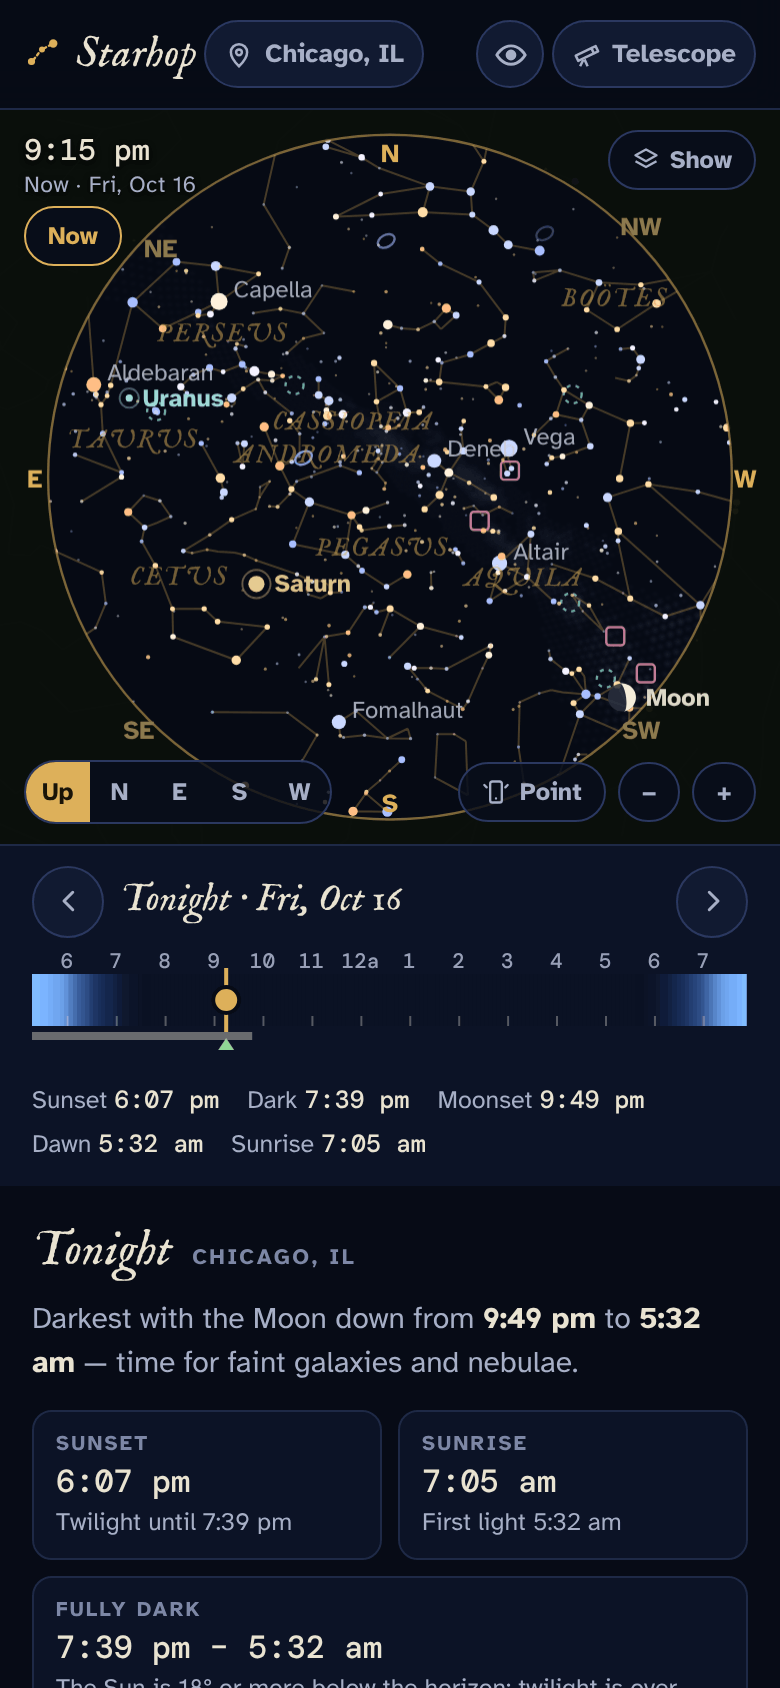
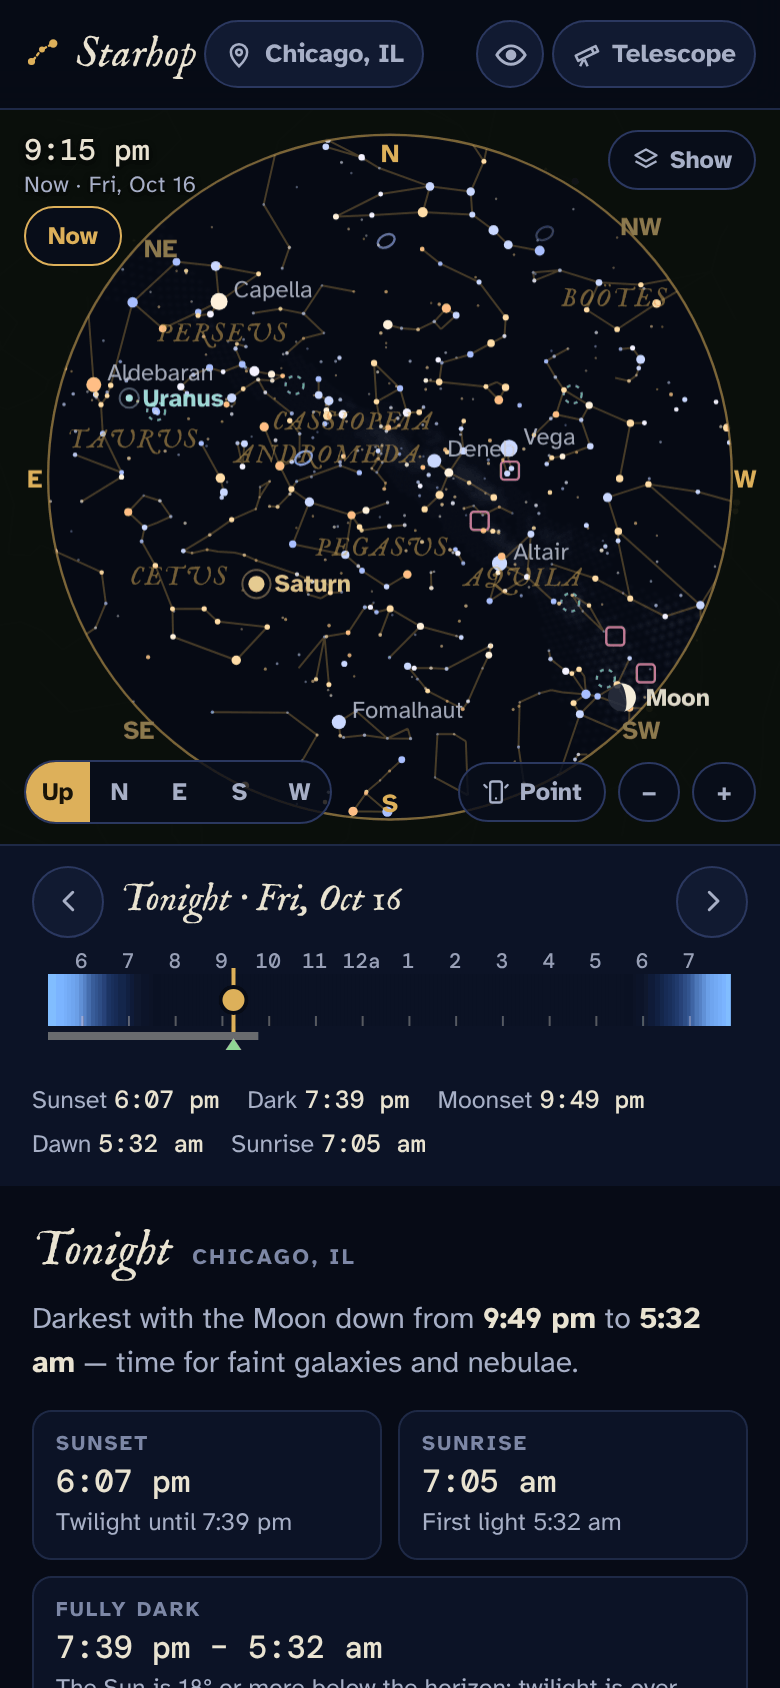
Keep the sky and the timeline clear of the screen's sides on touch phones
Android's back gesture starts at the screen's side. On a phone the timeline reached within 16 px of it, and it starts
at sunset at its left end, and the sky reached the sides themselves. On a touch screen up to 560 px wide the timeline
now comes in to 24 px from the sides, and the sky takes no touch in the 24 px at either side of it, so a swipe there
is the phone's own Back rather than a look around cut short. The sky is still drawn to the edges, and the buttons
over it work as before. With a mouse nothing changes. The phone screenshot of the sky is redrawn.

Claude-Session: https://claude.ai/code/session_01PQbLNW4ckNMowmqWSWnEc1

diff --git a/index.html b/index.html
@@ -404,6 +404,16 @@ html.red .chart canvas{background:#050000}
 }
 /* narrower still there's no room for both words, and the place matters more: the telescope is its icon again */
 @media (max-width:340px){#scopeBtn .t{display:none}}
+/* On a phone's touch screen, what a finger drags keeps 24 px from the screen's sides, clear of where Android's back
+   gesture starts: the timeline comes in from the page's 16 px margin, and the sky takes no touch in the 24 px at either
+   side, so a swipe there is the phone's own Back rather than a look around cut short. The sky is still drawn to the
+   edges, and the buttons over it work as before. */
+@media (pointer:coarse) and (max-width:560px){
+  #tlc{margin-inline:8px;width:calc(100% - 16px)}
+  .skybox::before,.skybox::after{content:'';position:absolute;top:0;bottom:0;width:24px;z-index:1;touch-action:none}
+  .skybox::before{left:0}.skybox::after{right:0}
+  .skybox .overlay{z-index:2}
+}
 /* a phone zoomed to 200% or so: the brand keeps its mark and leaves its room to the place, and a target row puts its
    rating under its lines, which would otherwise have room for a letter at a time */
 @media (max-width:300px){

diff --git a/sw.js b/sw.js
@@ -8,7 +8,7 @@
 // fingerprint of every file in SHELL: change any of them and test/e2e.mjs fails until FILES is changed to match (it
 // says what to), which changes this file, so every copy is made whole again at once.
 const CACHE = 'starhop-v10'; // bump the number when the file list changes
-const FILES = 'a53890a0'; // test/e2e.mjs checks this
+const FILES = 'd1eff5ef'; // test/e2e.mjs checks this
 const SHELL = [
   './', 'index.html', 'carry.js', 'js/astronomy.browser.min.js',
   'data/stars.json', 'data/constellations.json', 'data/dso.json', 'data/milkyway.json', 'data/tzcity.json', 'data/cities.json',
